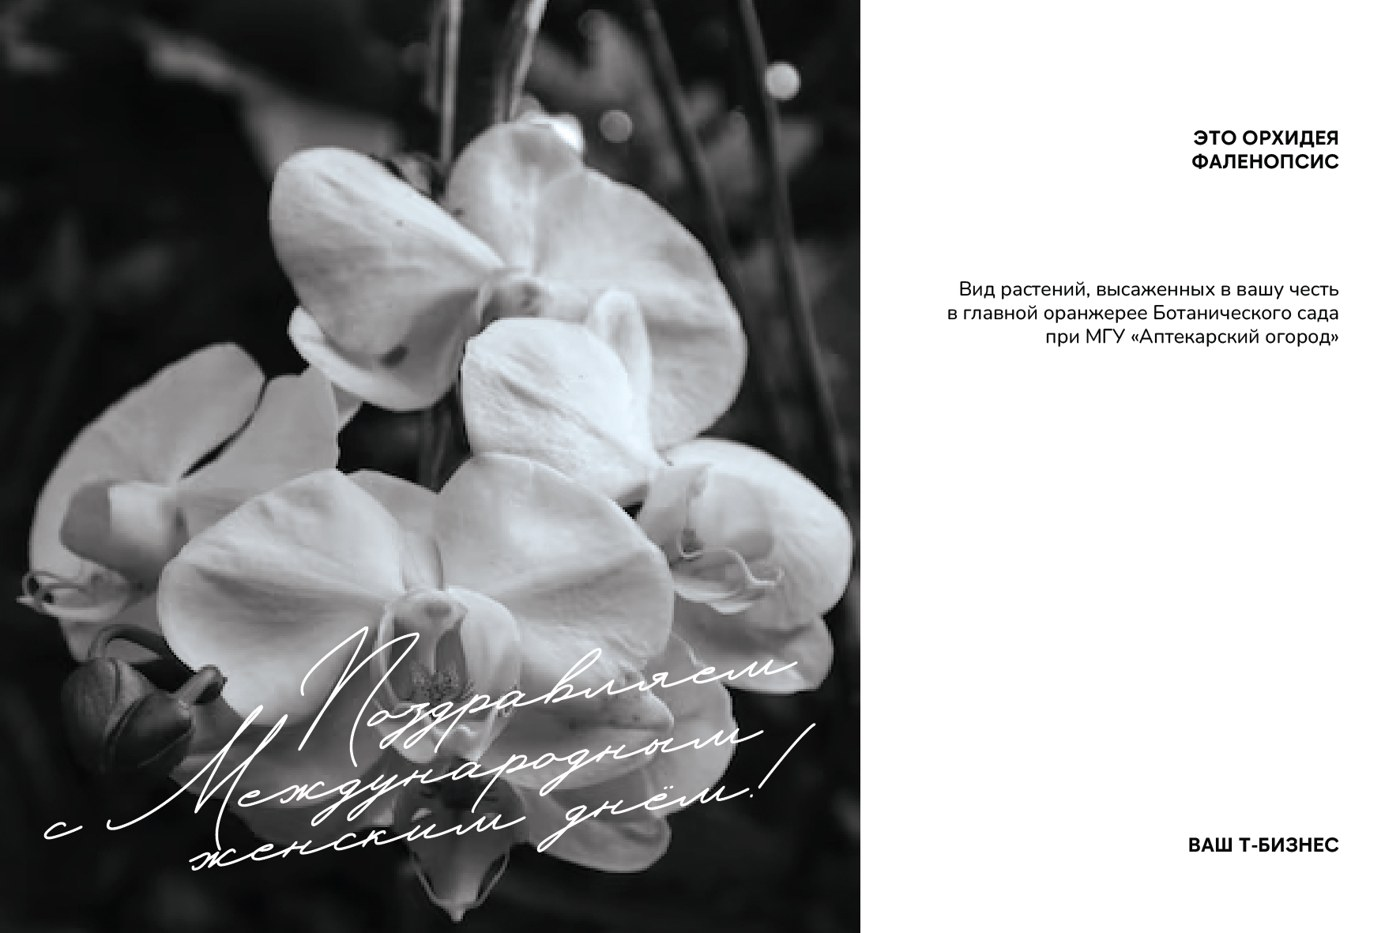
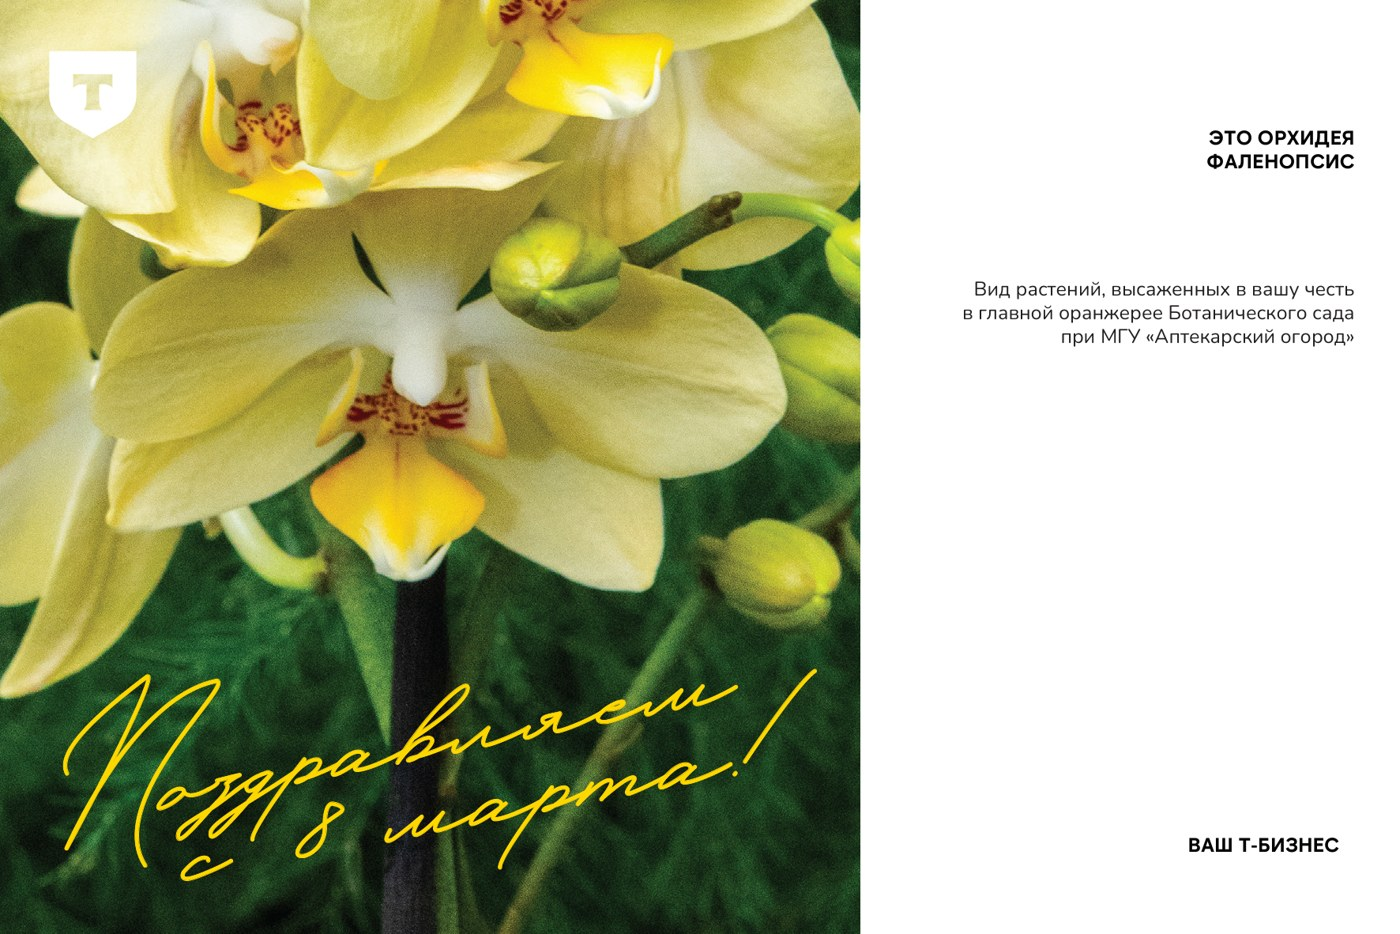
Спецпроекты Т-Банка: цветная открытка, оранжерея с табличками, щит на коробочке, пик в кружке

diff --git a/tbank-box.html b/tbank-box.html
@@ -92,6 +92,12 @@
   .duo{margin-top:30px;display:grid;grid-template-columns:minmax(0,1fr) minmax(0,1.4fr);gap:16px;align-items:stretch}
   .duo .stage{margin-top:0;height:auto;min-height:440px}
   .duo .cardimg{border-radius:22px;overflow:hidden;box-shadow:0 0 0 1px var(--line);align-self:center}
+  .gh{margin:0;align-self:stretch;display:flex;flex-direction:column}
+  .gh img{width:100%;flex:1;object-fit:cover;border-radius:22px}
+  .gh figcaption{margin-top:10px;font-size:12.5px;color:var(--mute)}
+  .cards2{margin-top:16px;display:grid;grid-template-columns:1fr 1fr;gap:12px}
+  .cards2 img{width:100%;border-radius:12px;box-shadow:0 0 0 1px var(--line)}
+  @media (max-width:720px){.cards2{grid-template-columns:1fr}}
   .live2{margin-top:30px;display:grid;grid-template-columns:minmax(0,.8fr) minmax(0,1fr);gap:16px;align-items:start}
   .live2>img{width:100%;border-radius:14px}
   .live2 figure{margin:0}
@@ -151,7 +157,7 @@
   <!-- ===== 02 · Т-Бизнес, 8 Марта ===== -->
   <section class="chap" id="march8">
     <div class="chap-h"><span class="chap-n">02</span><span class="lock2"><img class="chap-logo biz" src="assets/cases/tbiz-8march/logo-tbiz.svg" alt="Т-Бизнес"><i>×</i><b>Аптекарский огород</b></span><span class="chap-k">8 Марта</span></div>
-    <div class="stage"><iframe src="projects/tbiz-hexbox/index.html?v=9" title="3D-модель шестиугольной коробки Т-Бизнес" loading="lazy"></iframe></div>
+    <div class="stage"><iframe src="projects/tbiz-hexbox/index.html?v=11" title="3D-модель шестиугольной коробки Т-Бизнес" loading="lazy"></iframe></div>
     <p class="stage-cap">Распадающаяся шестиугольная коробка 246 × 213 × 123 по печатному макету: откройте — стенки раскроются, а открытка подлетит ближе</p>
     <h2 class="chap-t">Орхидея, которая находит опору в своей природе</h2>
     <div class="txt3">
@@ -161,7 +167,11 @@
     </div>
     <div class="duo">
       <div class="stage s2"><iframe src="projects/tbiz-plaque/index.html?v=4" title="3D-модель таблички в оранжерее" loading="lazy"></iframe></div>
-      <div class="cardimg"><img src="assets/cases/tbiz-8march/card.jpg" alt="Открытка Т-Бизнес к 8 Марта" loading="lazy"></div>
+      <figure class="gh"><img src="assets/cases/tbiz-8march/greenhouse.jpg" alt="Оранжерея «Аптекарского огорода»: таблички на колоннах" loading="lazy"><figcaption>Где стоят таблички: на колоннах главной оранжереи, рядом с высаженными орхидеями</figcaption></figure>
+    </div>
+    <div class="cards2">
+      <img src="assets/cases/tbiz-8march/card-color.jpg" alt="Открытка: орхидеи и «Поздравляем с 8 марта!»" loading="lazy">
+      <img src="assets/cases/tbiz-8march/card-color-back.jpg" alt="Оборот открытки с текстом и фото орхидей" loading="lazy">
     </div>
     <div class="cap sub-cap">В канале Т-Бизнеса</div>
     <div class="live2 solo">

diff --git a/projects/tbiz-hexbox/index.html b/projects/tbiz-hexbox/index.html
@@ -114,9 +114,9 @@ for(let i=0;i<6;i++){const {p,n}=face(i);
   sk.position.copy(n.clone().multiplyScalar(LAP+.15));sk.position.y=-LH/2+T;lid.add(sk)}
 const LID_CLOSED=new THREE.Vector3(0,H,0);lid.position.copy(LID_CLOSED);
 
-/* маленькая коробочка внутри: просто жёлтая */
+/* маленькая коробочка внутри: жёлтая, щит на крышке */
 const CB=112,CHh=116;
-const cubeMats=yel;
+const cubeMats=[yel,yel,new THREE.MeshStandardMaterial({map:tCubeTop,roughness:.8}),yel,yel,yel];
 const cube=new THREE.Mesh(new THREE.BoxGeometry(CB,CHh,CB),cubeMats);cube.position.set(-6,T+.6+CHh/2,10);cube.rotation.y=-.35;cube.castShadow=cube.receiveShadow=true;box.add(cube);
 /* открытка стоит за коробочкой; при открытии подлетает к зрителю */
 const card=new THREE.Group();scene.add(card);
